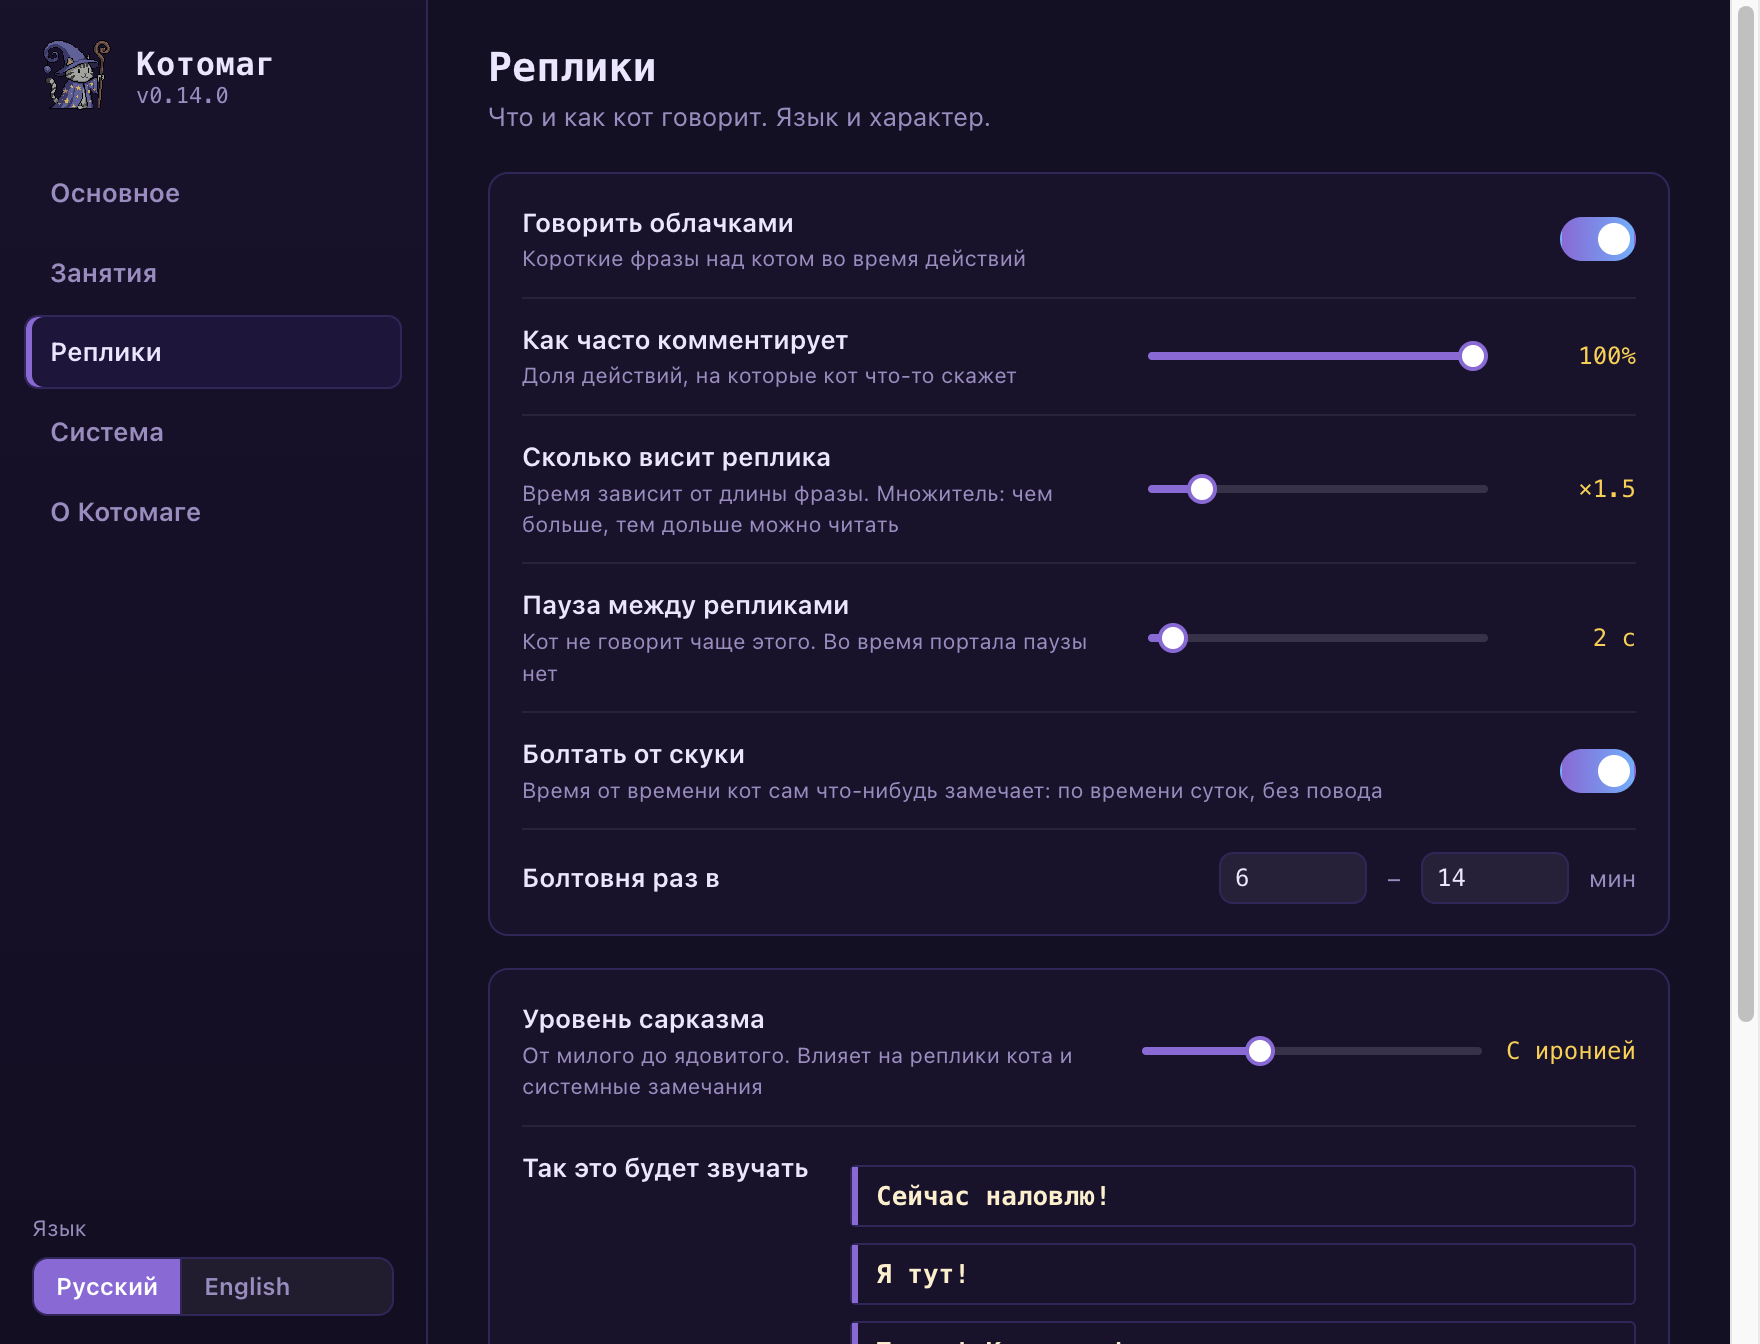
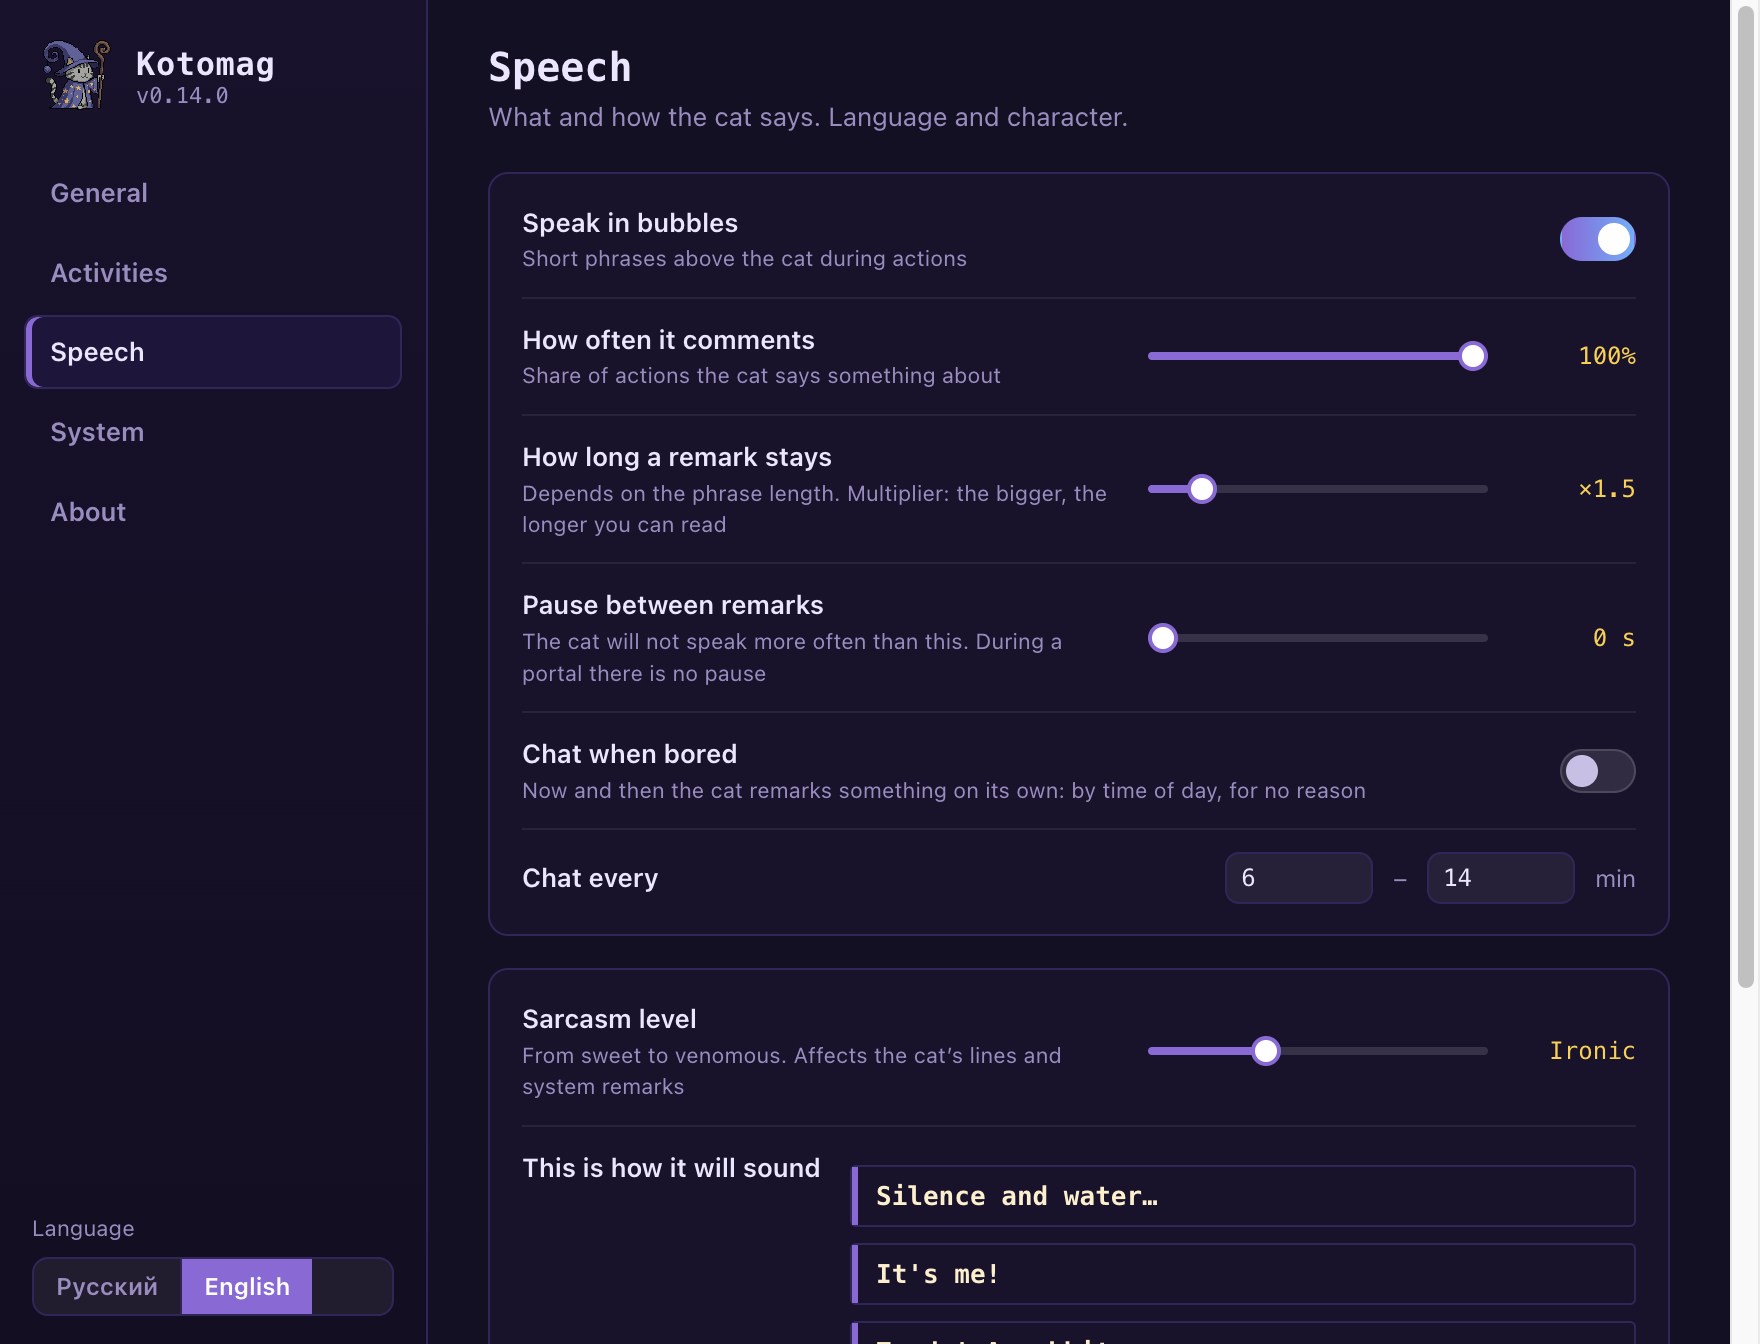
README: one screenshot per activity, settings screenshot in the matching language

diff --git a/src/ui/cat.js b/src/ui/cat.js
@@ -215,8 +215,8 @@
         else if (lift <= 0.5 && now > runSeq.pounceAt) {
           vy = -340; lift = 1; lastActivity = now;
           if (runSeq.kind === 'mouse' && mouseObj) {
-            if (Math.random() < 0.5) { burstAt(mouseObj.x - catX + 26, OY + 82, 14, ['#ffffff', '#ffb3c1', '#ffd447'], 34); removeMouse(false); runSeq.until = now + 900; say(T('act.mouse.catch'), 250, 1200); runSeq.pounceAt = now + 5000; }
-            else { mouseObj.state = 'run'; mouseObj.dir = mouseObj.x > catX ? 1 : -1; mouseObj.v = 330; mouseObj.until = now + 900; runSeq.pounceAt = now + 1400; say(T('act.mouse.miss'), 250, 1000); }
+            if (Math.random() < 0.5) { burstAt(mouseObj.x - catX + 26, OY + 82, 14, ['#ffffff', '#ffb3c1', '#ffd447'], 34); removeMouse(false); runSeq.until = now + 900; say(T('act.mouse.catch'), 250, 1200, 0, false, true); runSeq.pounceAt = now + 5000; }
+            else { mouseObj.state = 'run'; mouseObj.dir = mouseObj.x > catX ? 1 : -1; mouseObj.v = 330; mouseObj.until = now + 900; runSeq.pounceAt = now + 1400; say(T('act.mouse.miss'), 250, 1000, 0, false, true); }
           } else runSeq.pounceAt = now + rnd(1800, 4200);
         }
       }
@@ -323,7 +323,7 @@
         }
         Z.t = t; Z.tR = tR;
       } else if (k === 'hat') {
-        const H = yarn.hat || (yarn.hat = { item: pick(['rabbit', 'rabbit', 'duck', 'flower', 'star', 'heart']) });
+        const H = yarn.hat || (yarn.hat = { item: window.__hi || pick(['rabbit', 'rabbit', 'duck', 'flower', 'star', 'heart']) });
         const T1 = 16 * 110, T2 = T1 + 560, tt = t - T2, HOLD = 2400;
         if (t < T1) { H.phase = 'off'; set = 'hat1'; idx = Math.min(15, Math.floor(t / 110)); }
         else if (t < T2) { H.phase = 'pause'; set = 'hat1'; idx = 15; }
@@ -767,7 +767,7 @@
     liftEl2.appendChild(im); fishItem = im;
     const lx = bx + dir * Math.max(0, iw / 2 - 34), ly = by - Math.round(ih * 0.3), apx = (bx + OX + 48) / 2, apy = OY - 62, c = (x, y, r, s) => `translate(${Math.round(x - iw / 2)}px,${Math.round(y - ih / 2)}px) rotate(${r}deg) scale(${s})`;
     im.animate([{ transform: c(bx, by, 0, 0.6), easing: 'cubic-bezier(.2,.7,.4,1)' }, { transform: c(apx, apy, dir * 200, 1.15), offset: 0.5, easing: 'cubic-bezier(.6,0,.9,.4)' }, { transform: c(lx, ly, dir * 360, 1) }], { duration: 1250, fill: 'forwards' });
-    setTimeout(() => { burstAt(lx, ly, 8, ['#ffffff', '#ffd447'], 22); SND.land(); say(T('catch.' + F.item), 100, 1600); }, 1250);
+    setTimeout(() => { burstAt(lx, ly, 8, ['#ffffff', '#ffd447'], 22); SND.land(); say(T('catch.' + F.item), 100, 1600, 0, false, true); }, 1250);
     setTimeout(() => { if (im.parentNode) { im.animate([{ opacity: 1 }, { opacity: 0 }], { duration: 400, fill: 'forwards' }); setTimeout(() => im.remove(), 420); } }, 1250 + 1500);
   }
 
@@ -802,12 +802,12 @@
     if (grow >= 1 && Math.random() < dt * rate) { const e = mkFx('fxp', mx + rnd(-9, 9), my + rnd(-1, 2), { '--pc': Z.color }); e.style.animation = 'none'; e.style.borderRadius = '50%'; const sz = rnd(3, 6); e.style.width = e.style.height = sz + 'px'; e.animate([{ transform: 'translate(0,0) scale(.4)', opacity: .9 }, { transform: `translate(${rnd(-6, 6)}px,${-rnd(14, 26)}px) scale(1.2)`, opacity: 0 }], { duration: rnd(600, 1000), fill: 'forwards' }); setTimeout(() => e.remove(), 1100); }
     if (grow >= 1 && Math.random() < dt * 4) { const e = mkFx('fxp', mx + rnd(-8, 8), my - 3, { '--pc': '#e8e8f4' }); e.style.animation = 'none'; e.style.borderRadius = '50%'; e.style.width = e.style.height = '9px'; e.style.opacity = '.55'; e.animate([{ transform: 'translate(0,0) scale(.5)', opacity: .5 }, { transform: `translate(${rnd(-8, 8)}px,-34px) scale(1.8)`, opacity: 0 }], { duration: 1500, fill: 'forwards' }); setTimeout(() => e.remove(), 1600); }
     if (Z.phase === 'good' && !Z.did) {
-      Z.did = 1; SND.magic(); say(T('potion.good'), 150, 1600);
+      Z.did = 1; SND.magic(); say(T('potion.good'), 150, 1600, 0, false, true);
       for (let i = 0; i < 40; i++) { const a = -1.57 + rnd(-0.55, 0.55), d = rnd(40, 110); flyParticle(mx, my, Math.cos(a) * d, Math.sin(a) * d, ['#ffd447', '#ff5d73', '#6fb8ff', '#3ddc84', '#ffffff', '#b06cff'][i % 6], rnd(4, 6), rnd(900, 1500), 60); }
       flashAt(mx, my - 6, Z.color, 40);
     }
     if (Z.phase === 'boom' && !Z.did) {
-      Z.did = 1; SND.magic(); say(T('potion.bad'), 450, 1800);
+      Z.did = 1; SND.magic(); say(T('potion.bad'), 450, 1800, 0, false, true);
       flashAt(mx, my - 8, '#ffcf70', 110); burstAt(mx, my - 8, 36, ['#ffd447', '#ff9a2a', '#ff5d73', '#ffffff'], 80);
       for (let i = 0; i < 9; i++) { const e = mkFx('fxp', mx + rnd(-12, 12), my - 6, { '--pc': '#555' }); e.style.animation = 'none'; e.style.borderRadius = '50%'; const sz = rnd(14, 26); e.style.width = e.style.height = sz + 'px'; e.style.margin = -sz / 2 + 'px'; e.style.background = i % 2 ? '#4a4a55' : '#2e2e38'; e.style.boxShadow = 'none'; e.animate([{ transform: 'translate(0,0) scale(.3)', opacity: .95 }, { transform: `translate(${rnd(-60, 60)}px,${-rnd(30, 90)}px) scale(1.6)`, opacity: 0 }], { duration: rnd(1100, 1800), fill: 'forwards', delay: i * 40 }); setTimeout(() => e.remove(), 2000 + i * 40); }
     }
@@ -842,7 +842,7 @@
       im.animate([{ transform: `translate(${px - 20}px, ${py - 12}px) scale(.2) rotate(-14deg)`, opacity: 0 }, { transform: `translate(${px - 20}px, ${py - 48}px) scale(1.25) rotate(6deg)`, opacity: 1, offset: .55 }, { transform: `translate(${px - 20}px, ${py - 40}px) scale(1) rotate(0)`, opacity: 1 }], { duration: 420, easing: 'cubic-bezier(.2,1.5,.4,1)', fill: 'forwards' });
       setTimeout(() => { if (hatItem === im) im.animate([{ transform: `translate(${px - 20}px, ${py - 40}px)` }, { transform: `translate(${px - 20}px, ${py - 46}px)` }, { transform: `translate(${px - 20}px, ${py - 40}px)` }], { duration: 700, iterations: 4, easing: 'ease-in-out' }); }, 440);
       burstAt(px, py - 30, 18, ['#ffffff', '#ffd447', '#9a74e0', '#6fb8ff'], 36); SND.magic();
-      setTimeout(() => say(T('hat.' + H.item), 0, 1800, 50), 150);
+      setTimeout(() => say(T('hat.' + H.item), 0, 1800, 50, false, true), 150);
     }
     if (H.phase === 'on' && hatItem) { const im = hatItem; hatItem = null; const r = im.getBoundingClientRect(), p = liftEl2.getBoundingClientRect(); burstAt(r.left - p.left + 20, r.top - p.top + 22, 16, ['#ffffff', '#ffd447', '#9a74e0'], 34); im.animate([{ opacity: 1 }, { opacity: 0 }], { duration: 160, fill: 'forwards' }); setTimeout(() => im.remove(), 180); SND.magic(); }
   }
@@ -903,11 +903,11 @@
   // сколько висит реплика: по длине текста (≈ скорость чтения) и множителю из настроек
   const shoutDur = (text, ms) => Math.round(Math.max(ms, 1600 + String(text).length * 65) * (CFG.sayTime ?? 1.5));
   // реплики не чаще, чем через «паузу» после показа предыдущей (по умолчанию 2 с); во время портала паузы нет
-  function say(text, delay = 0, ms = 1200, up = 0, force = false) {
+  function say(text, delay = 0, ms = 1200, up = 0, force = false, prio = false) {
     const now = performance.now();
     if (!force) {
-      if (!CFG.say || quiet() || Math.random() * 100 >= (CFG.sayChance ?? 100)) return;
-      if (!portal && now < lastSayEnd + (CFG.sayGap ?? 2) * 1000) return;
+      if (!CFG.say || quiet() || (!prio && Math.random() * 100 >= (CFG.sayChance ?? 100))) return;
+      if (!prio && !portal && now < lastSayEnd + (CFG.sayGap ?? 2) * 1000) return;   // важные реплики (улов, зелье, фокус) перебивают текущую
     }
     const dur = shoutDur(text, ms);
     lastSayEnd = now + delay + dur; shoutQ = { at: now + delay, text, ms: dur, up };
